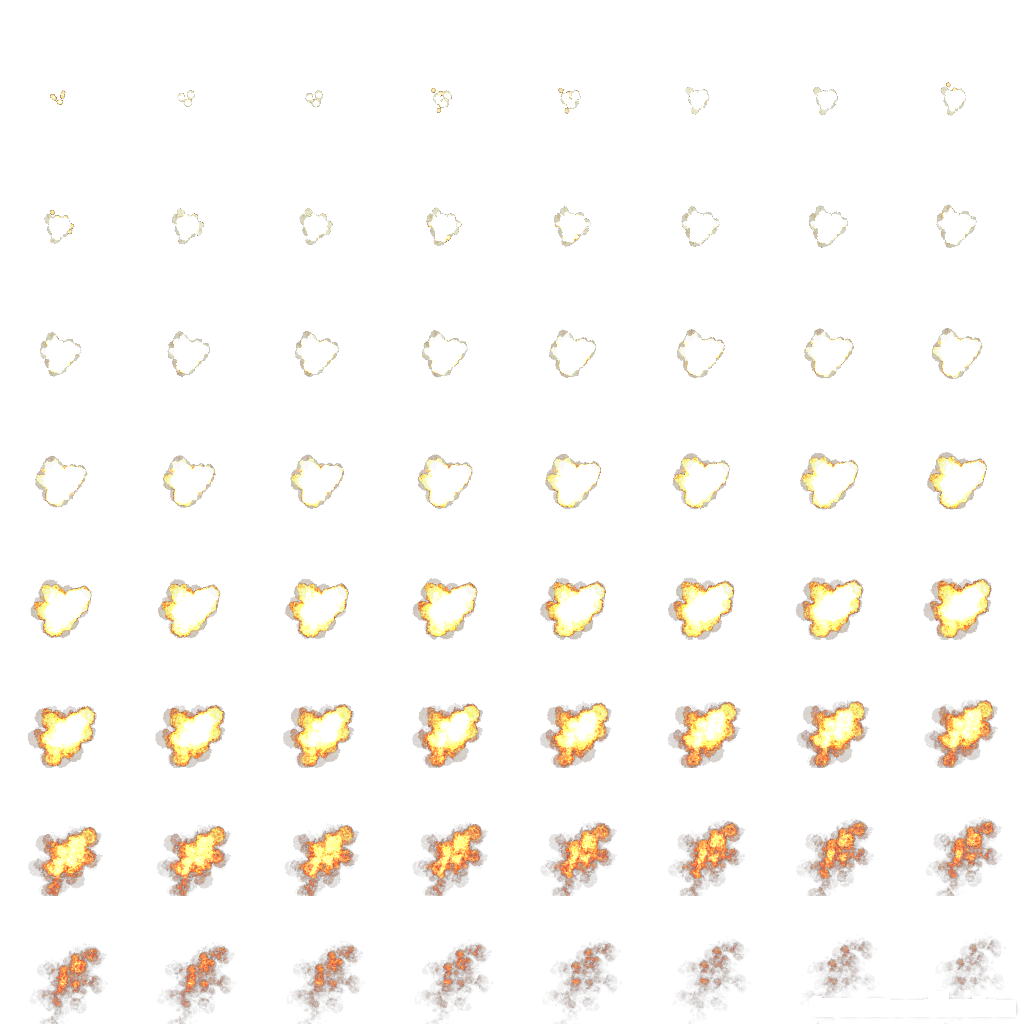
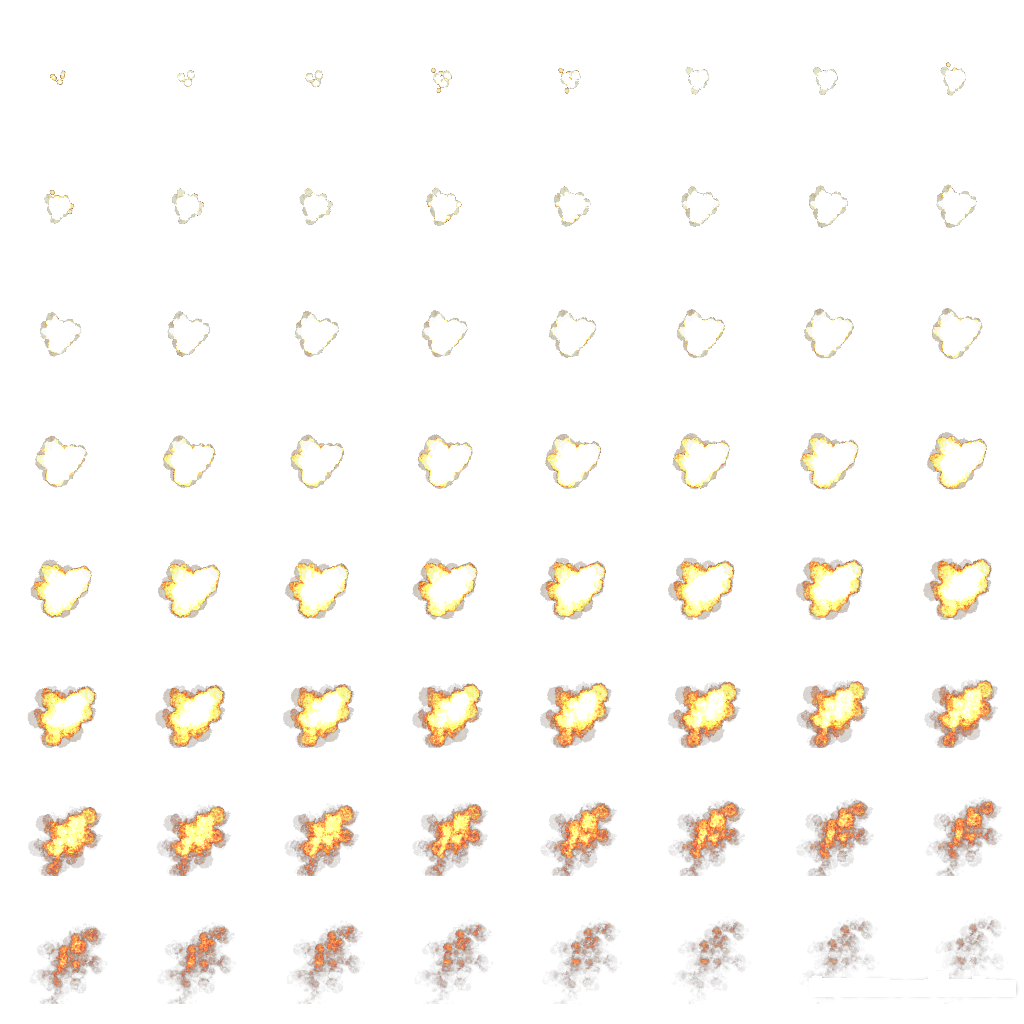
bug fix: explosion drawning, added asteroid spawningv2

diff --git a/src/GameEngine/ObjectEngine/DebrisEngine/SDebrisFactory.java b/src/GameEngine/ObjectEngine/DebrisEngine/SDebrisFactory.java
@@ -1,6 +1,7 @@
 package GameEngine.ObjectEngine.DebrisEngine;
 
 import java.util.Random;
+import java.util.Vector;
 
 import GameEngine.SId;
 import GameEngine.GeomEngine.SVector;
@@ -29,12 +30,33 @@ public class SDebrisFactory extends SFactory {
 			if (currentNumberOfAsteroids >= NumberOfAsteroid)
 				return;
 			Random random = new Random();
-			SVector pos = new SVector(random.nextFloat()*200-100+(random.nextInt(2)*2-1)*5000, 
-									  random.nextFloat()*200-100+(random.nextInt(2)*2-1)*5000);
+			int section = random.nextInt(4);
 			float rate = random.nextFloat()*90.0f + 10.0f;
-			float speed = 25 * rate / 100.0f + 5;
-			float scale = 4 * (1 - rate / 100.0f) + 1.0f;
-			SVector moveDir = new SVector((random.nextFloat()*2 - 1) * speed, (random.nextFloat()*2 - 1) * speed);
+			float speed = 25 * rate*rate / 10000.0f + 5;
+			float scale = 4 * (1 - rate*rate / 10000.0f) + 1.0f;
+			
+			SVector pos = new SVector();
+			SVector moveDir = new SVector();
+			if (section==0){
+				pos = new SVector(random.nextFloat()*200-100-5000, 
+						  random.nextFloat()*10200-5100);
+				moveDir = new SVector(random.nextFloat() , (random.nextFloat()*2 - 1)).setLength(speed);
+			}else if (section == 1){
+				pos = new SVector(random.nextFloat()*10200-5100, 
+						  random.nextFloat()*200-100+5000);
+				moveDir = new SVector((random.nextFloat()*2 - 1), -random.nextFloat()).setLength(speed);
+			}else if (section == 2){
+				pos = new SVector(random.nextFloat()*200-100+5000, 
+						  random.nextFloat()*10200-5100);
+				moveDir = new SVector(-random.nextFloat(), (random.nextFloat()*2 - 1)).setLength(speed);
+			}else {
+				pos = new SVector(random.nextFloat()*10200-5100, 
+						  random.nextFloat()*200-100-5000);
+				moveDir = new SVector((random.nextFloat()*2 - 1), random.nextFloat()).setLength(speed);
+			}
+				
+			
+			//SVector moveDir = new SVector((random.nextFloat()*2 - 1) * speed, (random.nextFloat()*2 - 1) * speed);
 			SAsteroid asteroid = new SAsteroid(pos, moveDir, scale);
 			addObject(asteroid);
 			SM message = SMPatterns.getObjectCreateMessage(asteroid);

diff --git a/src/RenderingEngine/SRenderer.java b/src/RenderingEngine/SRenderer.java
@@ -2,6 +2,7 @@ package RenderingEngine;
 
 import static org.lwjgl.opengl.GL11.GL_MODELVIEW;
 import static org.lwjgl.opengl.GL11.GL_PROJECTION;
+import static org.lwjgl.opengl.GL11.GL_ALPHA_TEST;
 import static org.lwjgl.opengl.GL11.glLoadIdentity;
 import static org.lwjgl.opengl.GL11.glMatrixMode;
 import static org.lwjgl.opengl.GL11.glOrtho;
@@ -10,6 +11,8 @@ import static org.lwjgl.opengl.GL11.glPushMatrix;
 import static org.lwjgl.opengl.GL11.glRotatef;
 import static org.lwjgl.opengl.GL11.glScalef;
 import static org.lwjgl.opengl.GL11.glTranslatef;
+import static org.lwjgl.opengl.GL11.glDisable;
+import static org.lwjgl.opengl.GL11.glEnable;
 
 import java.awt.Font;
 import java.util.List;
@@ -17,9 +20,9 @@ import java.util.ListIterator;
 
 import org.lwjgl.input.Keyboard;
 import org.lwjgl.opengl.GL11;
+import org.newdawn.slick.Color;
 import org.newdawn.slick.TrueTypeFont;
 import org.newdawn.slick.opengl.Texture;
-import org.newdawn.slick.Color;
 
 import GameEngine.SGameInstance;
 import GameEngine.SPlayer;
@@ -29,7 +32,6 @@ import GameEngine.BaseEngine.SObject.ObjectState;
 import GameEngine.EntityEngine.SEntity;
 import GameEngine.ObjectEngine.DebrisEngine.SDebrisFactory;
 import Main.SMain;
-import WebEngine.ComEngine.SNode;
 
 //TODO create SDrawObject and replace texture
 
@@ -124,6 +126,7 @@ public class SRenderer {
 				Specifications.WindowHeight,
 				0, -10, 10);
 		glMatrixMode(GL_MODELVIEW);
+		
 		if (!SMain.IsServer()){
 			DrawTextOfPlayer(playerToFollow, 0);
 		}else{

diff --git a/src/GameEngine/ObjectEngine/SExplosion.java b/src/GameEngine/ObjectEngine/SExplosion.java
@@ -24,6 +24,7 @@ public class SExplosion extends SObject{
 	public SExplosion(SVector pos){
 		super();
 		this.pos = new SVector(pos);
+		System.out.println(this.pos.getString());
 		this.getBody().setTexture("res/object/explosion/explosionv2.png");
 		this.getBody().setScale(1.0f);
 		this.getBody().setDrawScale(size);
@@ -61,8 +62,8 @@ public class SExplosion extends SObject{
 	public List<SRenderObject> getDrawables() {
 		List<SRenderObject> list = new ArrayList<SRenderObject>();
 		int Life = currentLife;
-		SVector leftBottom = new SVector(((Life-1)%8)*0.125f, ((Life-1)/8+1)*0.125f);
-		SVector rightUpper = new SVector(((Life-1)%8+1)*0.125f, ((Life-1)/8)*0.125f);
+		SVector leftBottom = new SVector(((Life-1)%8)*0.125f+0.0058f, ((Life-1)/8)*0.125f+0.028f+0.097f);
+		SVector rightUpper = new SVector(((Life-1)%8)*0.125f+0.0058f+0.097f, ((Life-1)/8)*0.125f+0.028f);
 		
 		list.add(new SRenderObject(body.getTexture(), pos, lookDir.getAngle(), body.getCurrentDrawScale(), 1.0f, body.getColor(), leftBottom, rightUpper, 0.0101f));
 		return list;

diff --git a/src/Main/SMain.java b/src/Main/SMain.java
@@ -155,7 +155,7 @@ public class SMain {
             Display.setDisplayMode(biggest);
             Specifications.WindowWidth = biggest.getWidth();
             Specifications.WindowHeight = biggest.getHeight();
-            Display.setFullscreen(true);
+            //Display.setFullscreen(true);
             Display.setVSyncEnabled(true);
             Display.create();
         } catch (LWJGLException e) {
